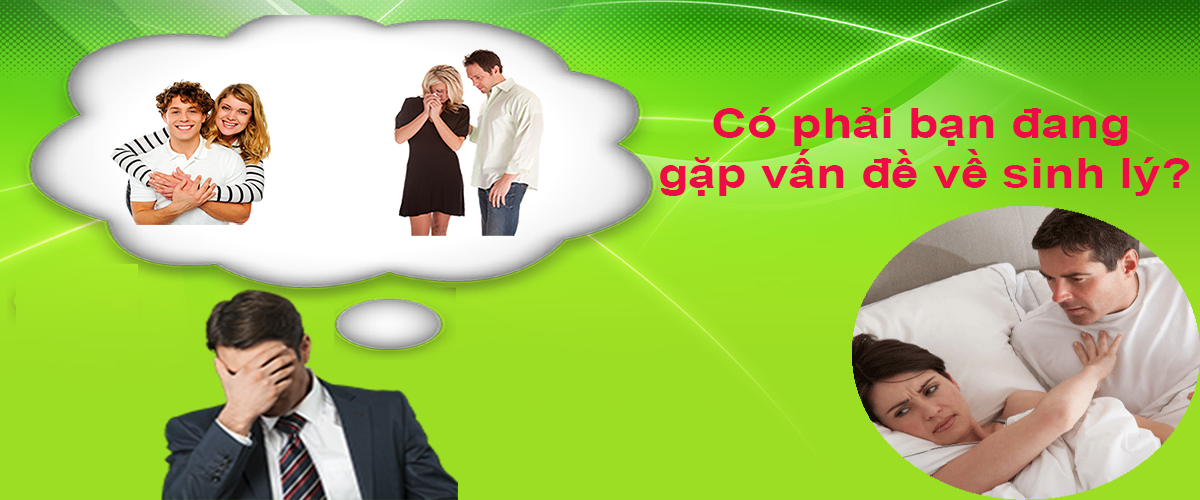
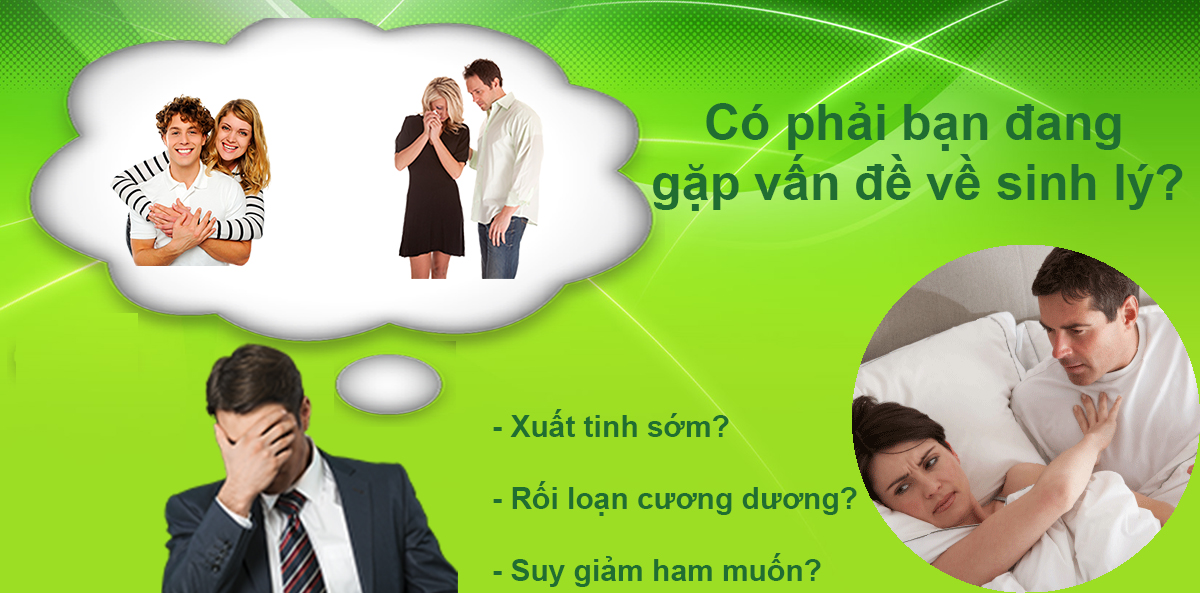
hihi

diff --git a/website/thapbat/style.css b/website/thapbat/style.css
@@ -29,7 +29,29 @@
     width: 100%;
     display: block;
 }
-
+.banner__button{
+    position: absolute;
+    top: 60%;
+    left: 50%;
+    transform: translate(-50%,-50%);
+}
+@keyframes kfinput {
+    50%{background: #015a03;color: white;}
+    100%{background: white;color: #015a03;}
+}
+.banner__button input{
+    /* background: #015a03;
+    color: white; */
+    animation: kfinput 5s ease  infinite;
+    width: 200px;
+    height: 50px;
+    font-size: 18px;
+    border-radius: 50%;
+}
+.banner__button input:active{
+    background: white;
+    color: #015a03;
+}
 .menu__wrap{
     width: 100%;
     position: absolute;

diff --git a/website/thapbat/index.html b/website/thapbat/index.html
@@ -50,9 +50,14 @@
             <div class="banner__img">
                 <img src="img/background.jpg">
             </div>
+            <div class="banner__button">
+                <a href="#0">
+                    <input type="button" class="banner__btn" value="Tìm hiểu ngay">
+                </a>
+            </div>
             <div class="clear"></div>
         </div>
-        <div class="bienchung">
+        <div class="bienchung" id="0">
 
             <div class="bienchung__wrap">
 
